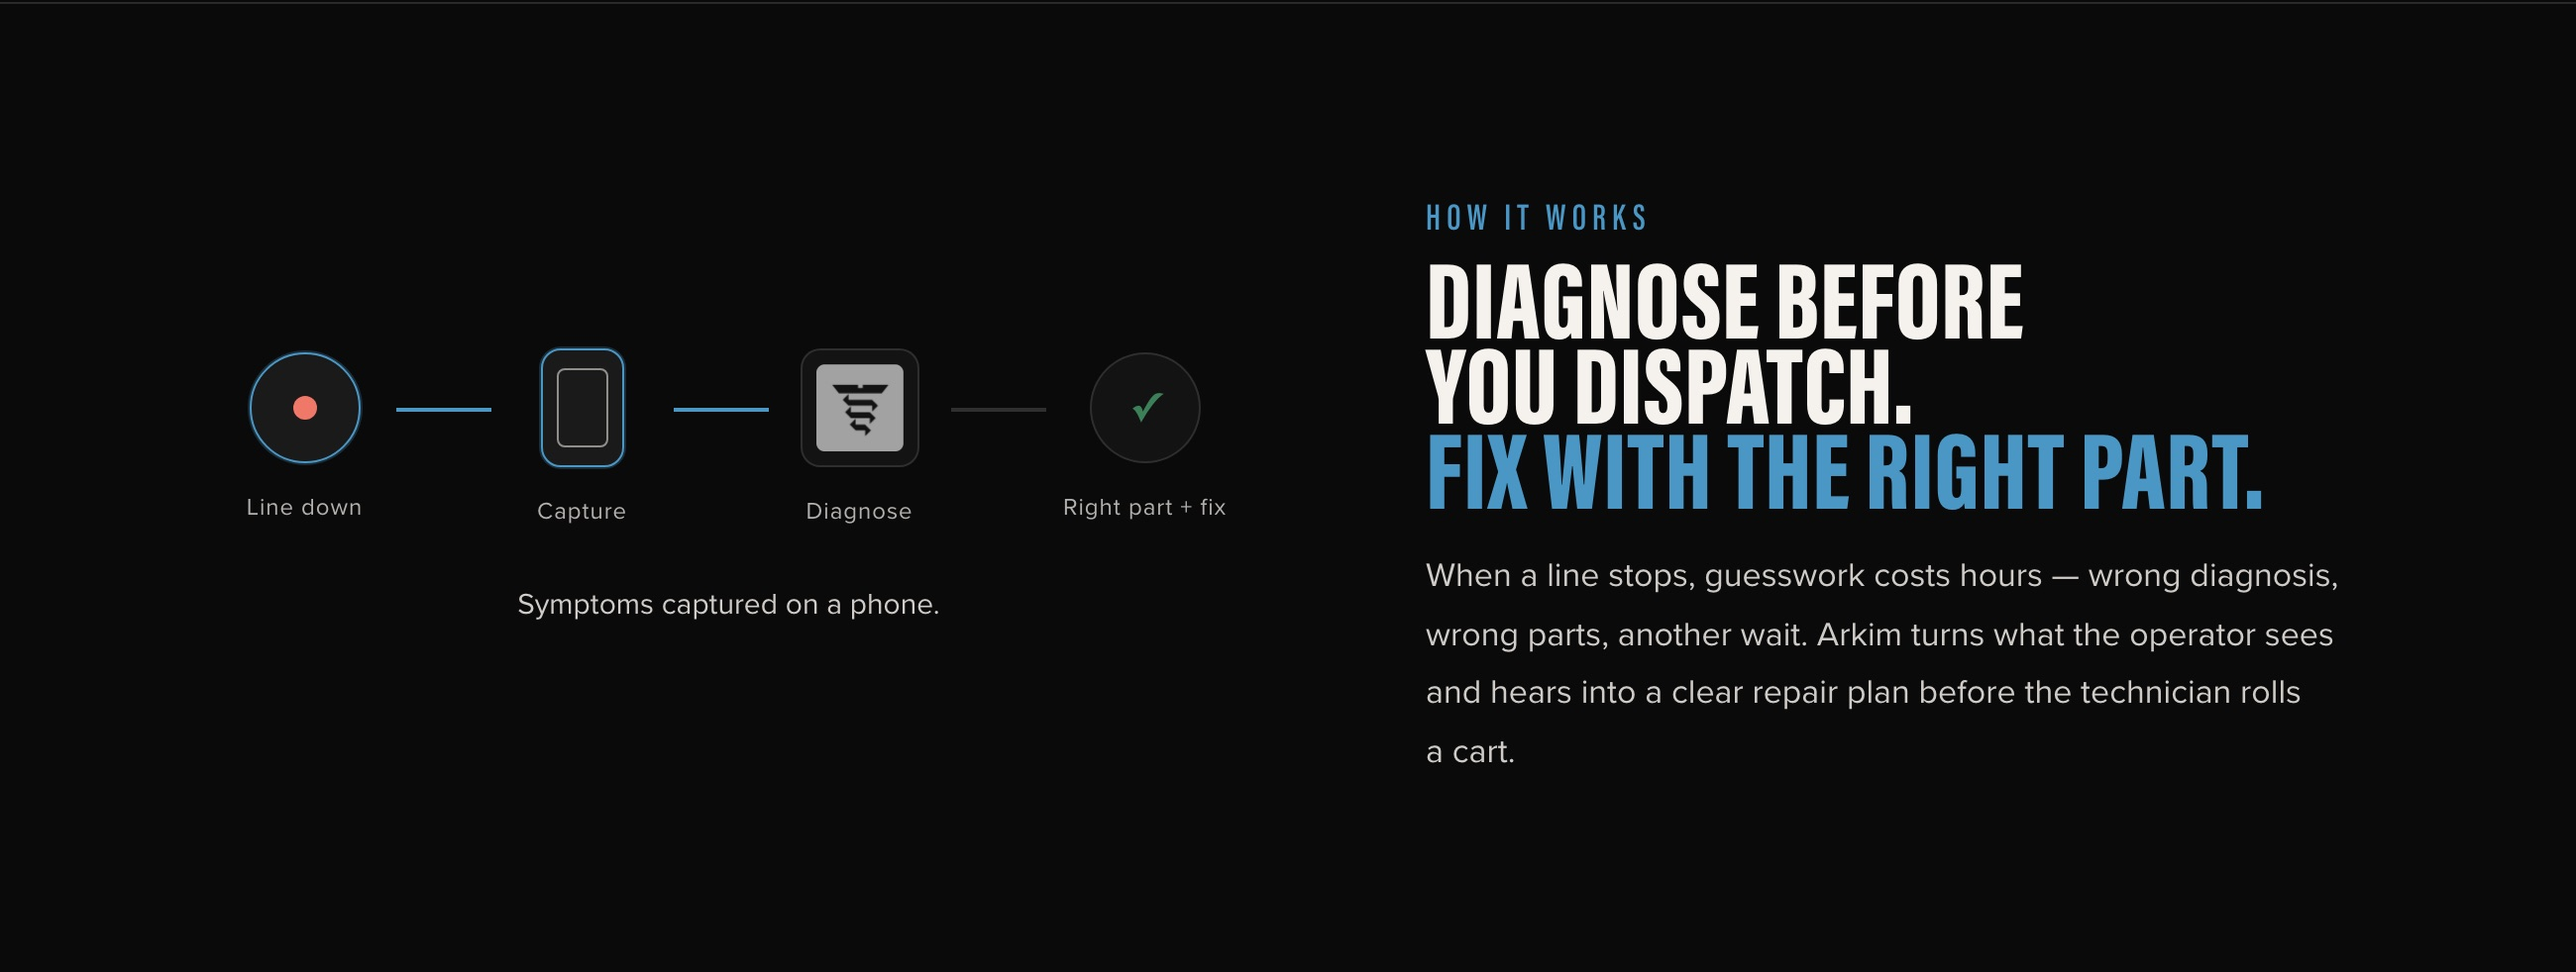
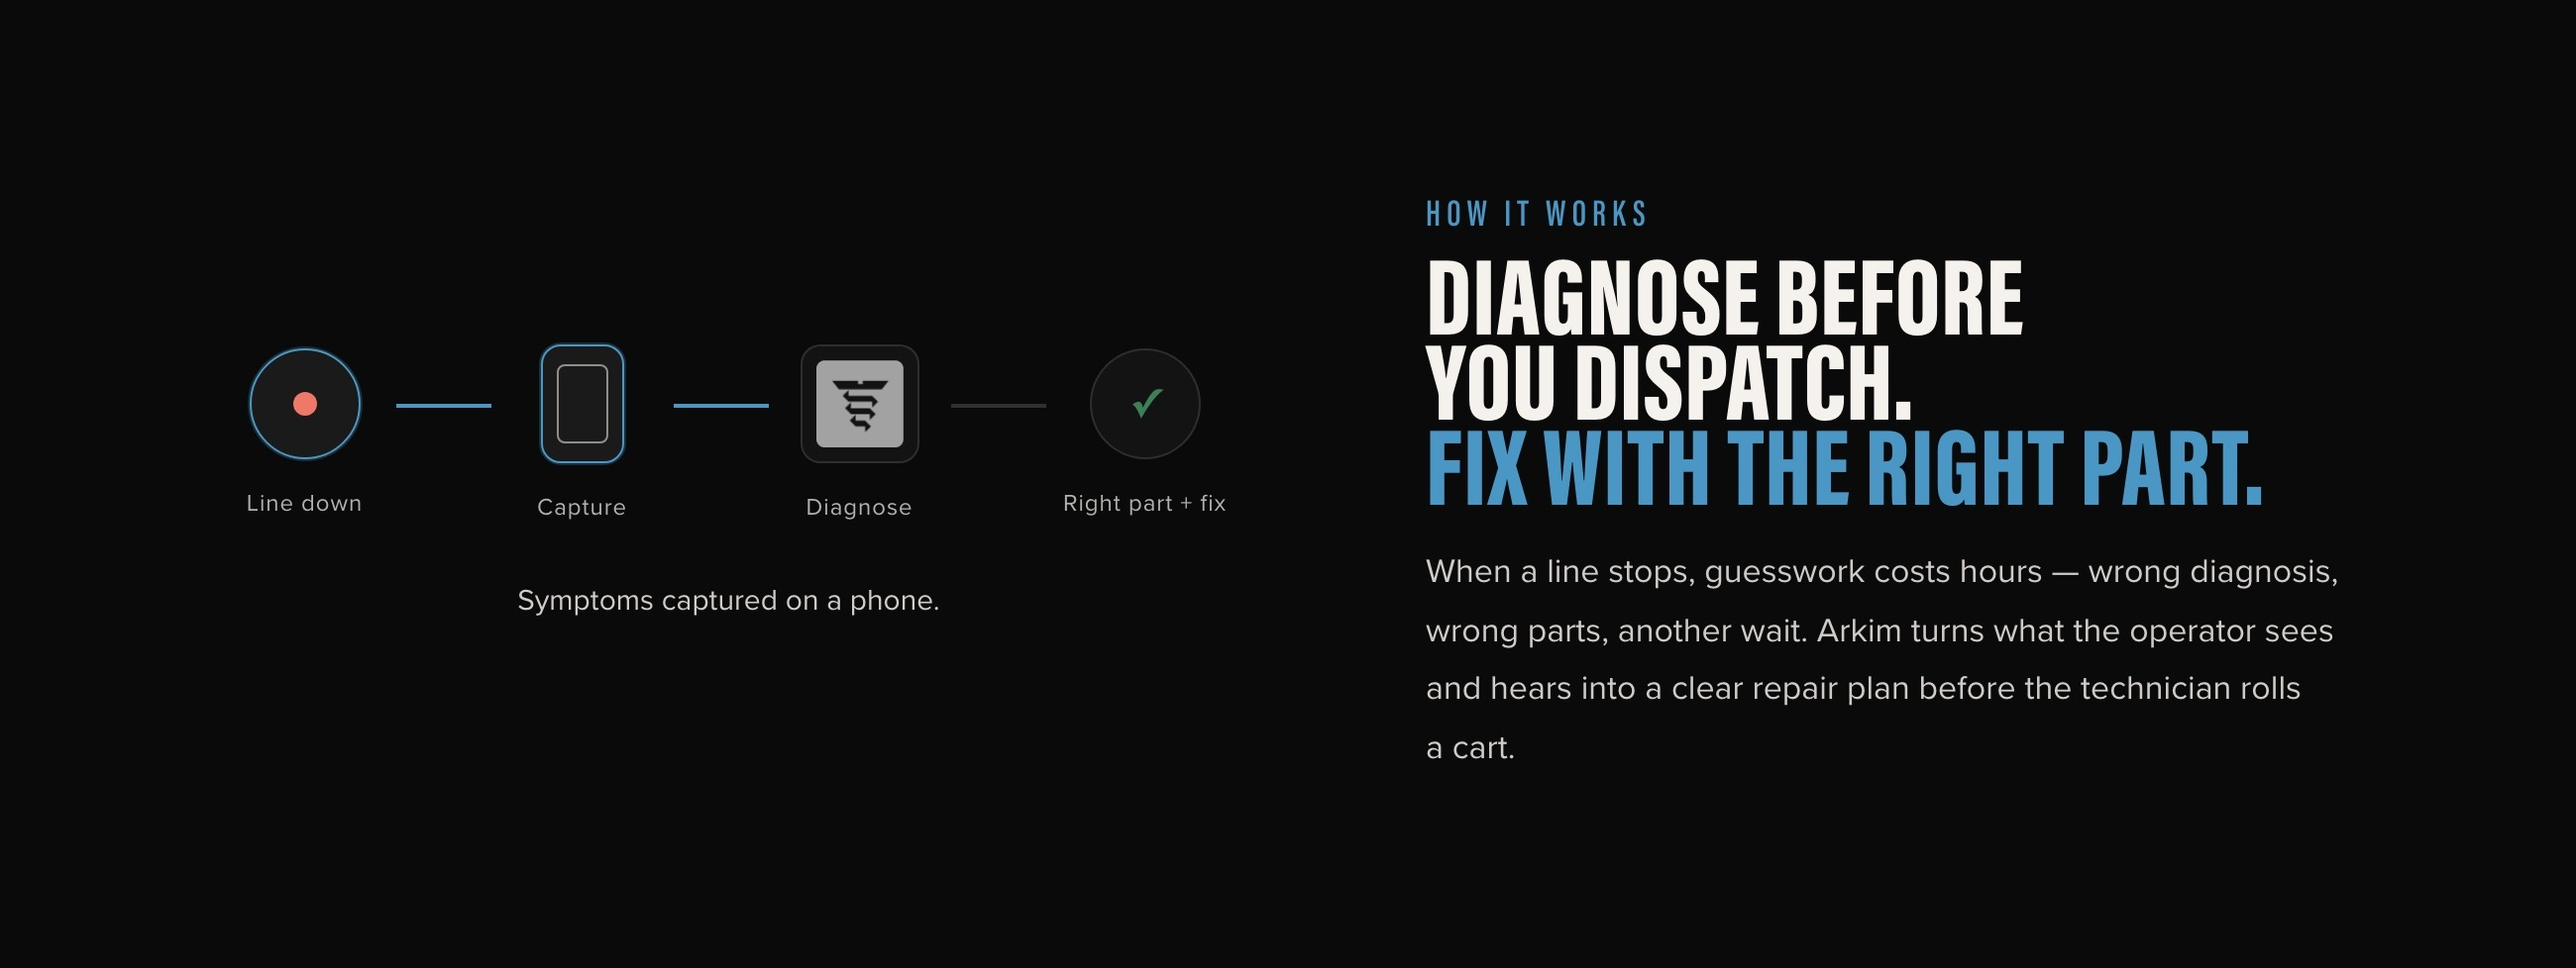
Expand Arkim case study with theme-aware branding and gallery updates.
Add light/dark hero logos, a brand palette figure, refined video embed styling, and updated service copy and assets.

diff --git a/src/components/CaseStudy.js b/src/components/CaseStudy.js
@@ -31,8 +31,10 @@ function renderGalleryVideo(item) {
 }
 
 function renderGalleryFigure(image) {
+  const variantClass = image.variant ? ` case-figure--${image.variant}` : '';
+
   return [
-    '    <figure class="case-figure reveal">',
+    `    <figure class="case-figure${variantClass} reveal">`,
     `      <img src="${escapeHtml(image.src)}" alt="${escapeHtml(image.alt)}" loading="lazy" decoding="async">`,
     '    </figure>',
   ].join('\n');
@@ -62,9 +64,20 @@ function renderCaseNav(study) {
 }
 
 function renderHeroVisual(visual) {
+  const alt = escapeHtml(visual.alt);
+
+  if (visual.srcDark) {
+    return [
+      '    <figure class="case-hero__visual">',
+      `      <img class="case-hero__visual-img case-hero__visual-img--light" src="${escapeHtml(visual.src)}" alt="${alt}" decoding="async">`,
+      `      <img class="case-hero__visual-img case-hero__visual-img--dark" src="${escapeHtml(visual.srcDark)}" alt="" aria-hidden="true" decoding="async">`,
+      '    </figure>',
+    ].join('\n');
+  }
+
   return [
     '    <figure class="case-hero__visual">',
-    `      <img src="${escapeHtml(visual.src)}" alt="${escapeHtml(visual.alt)}" decoding="async">`,
+    `      <img class="case-hero__visual-img" src="${escapeHtml(visual.src)}" alt="${alt}" decoding="async">`,
     '    </figure>',
   ].join('\n');
 }

diff --git a/src/styles/components/case-study.css b/src/styles/components/case-study.css
@@ -44,8 +44,16 @@
   height: auto;
 }
 
-[data-theme='light'] .case-hero__visual img {
-  filter: invert(1);
+.case-hero__visual-img--dark {
+  display: none;
+}
+
+[data-theme='dark'] .case-hero__visual-img--light {
+  display: none;
+}
+
+[data-theme='dark'] .case-hero__visual-img--dark {
+  display: block;
 }
 
 .case-header .sec-label.reveal {
@@ -211,7 +219,13 @@
 
 .case-figure--video {
   border: 1px solid var(--line);
-  background: var(--bg2);
+  background: #000;
+}
+
+.case-figure--palette {
+  width: min(960px, 100%);
+  margin-inline: auto;
+  background: #000;
 }
 
 .case-figure img {
@@ -224,14 +238,18 @@
   position: relative;
   width: 100%;
   aspect-ratio: 16 / 9;
+  overflow: hidden;
   background: #000;
+  line-height: 0;
 }
 
 .case-video iframe {
   position: absolute;
-  inset: 0;
+  top: -1px;
+  left: 0;
+  display: block;
   width: 100%;
-  height: 100%;
+  height: calc(100% + 2px);
   border: 0;
 }
 

diff --git a/src/data/caseStudies.js b/src/data/caseStudies.js
@@ -21,10 +21,11 @@ export const caseStudies = [
     ],
     liveUrl: 'https://arkim.ai',
     client: 'Arkim AI',
-    service: 'Web Design & Development',
+    service: 'Web Design, Development & Digital Marketing Assets',
     year: '2026',
     heroVisual: {
-      src: 'https://assets.jotech.co/arkim-side-by-side-wht.svg',
+      src: 'https://assets.jotech.co/arkim-blk-1.svg',
+      srcDark: 'https://assets.jotech.co/arkim-wht-2.svg',
       alt: 'Arkim AI logo',
     },
     cover: {
@@ -32,6 +33,11 @@ export const caseStudies = [
       alt: 'Arkim AI homepage hero: industrial maintenance, re-leveraged',
     },
     gallery: [
+      {
+        src: 'https://assets.jotech.co/arkim-colors.gif',
+        alt: 'Arkim AI brand color palette',
+        variant: 'palette',
+      },
       {
         embedUrl: 'https://player.vimeo.com/video/1177525108?h=5344a5d7e1',
         title: 'Arkim AI client video',
